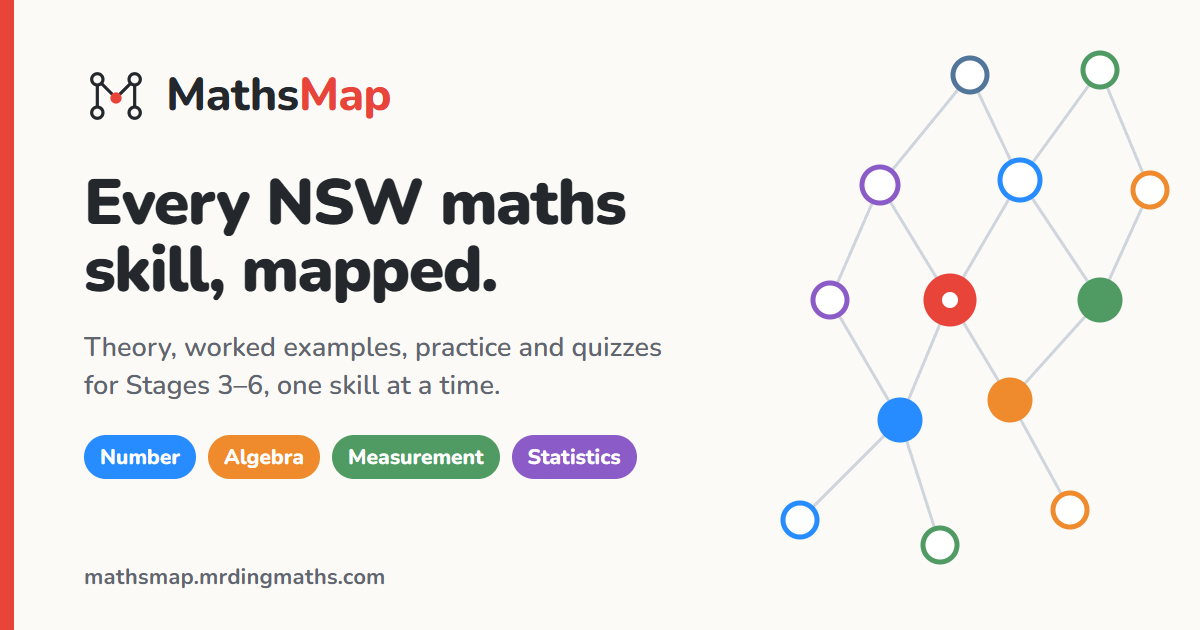
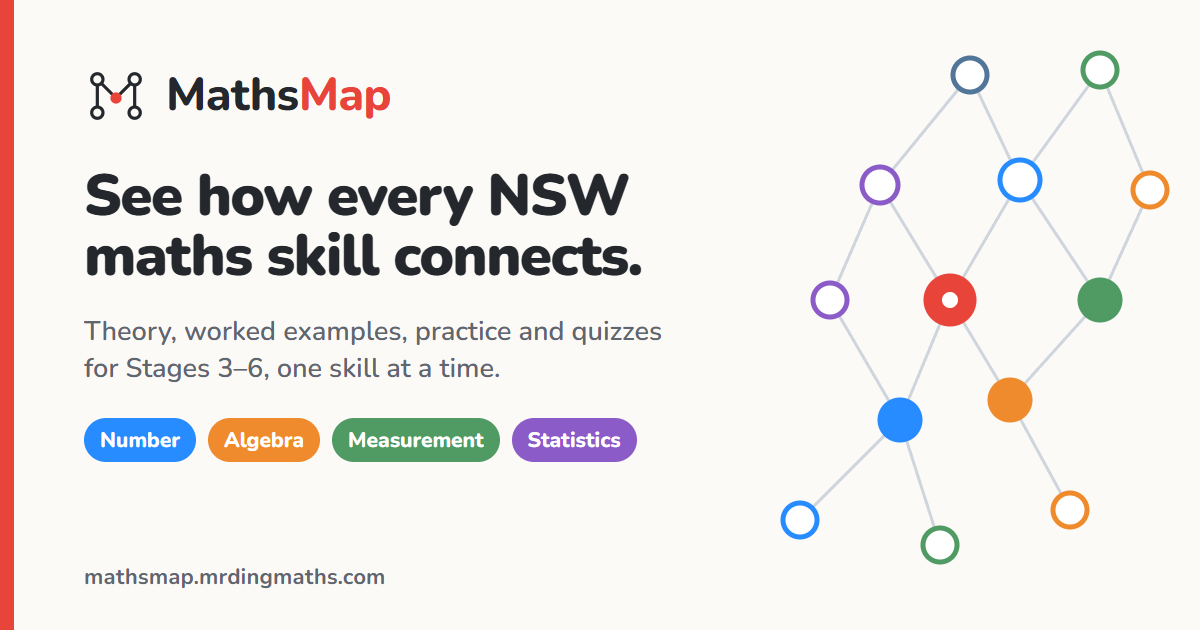
Reword the tagline: See how every NSW maths skill connects
Home title, home intro, site description, share tags and the og-image headline (re-rendered).

Changed region(s): [[0.0617, 0.2714, 0.555, 0.4825], [0.0617, 0.6635, 0.555, 0.7841], [0.0617, 0.5127, 0.555, 0.6333]]

diff --git a/index.html b/index.html
@@ -9,24 +9,24 @@
          cache-miss diagram (which also installs the worker tracker) — no tags here. -->
     <link rel="icon" type="image/svg+xml" href="/favicon.svg" />
     <title>MathsMap</title>
-    <meta name="description" content="Every NSW Stage 3–6 maths skill, mapped: theory, worked examples, practice and quizzes, with the prerequisites that lead to each skill." />
+    <meta name="description" content="See how every NSW Stage 3–6 maths skill connects, with theory, worked examples, practice and quizzes for each one." />
     <meta name="theme-color" content="#E8443A" />
     <!-- Social share cards. Image source: branding/og-image.html (node branding/render-og-image.mjs). -->
     <meta property="og:type" content="website" />
     <meta property="og:site_name" content="MathsMap" />
-    <meta property="og:title" content="MathsMap: every NSW maths skill, mapped" />
+    <meta property="og:title" content="MathsMap: See how every NSW maths skill connects" />
     <meta property="og:description" content="Theory, worked examples, practice and quizzes for Stages 3–6, one skill at a time." />
     <meta property="og:url" content="https://mathsmap.mrdingmaths.com/" />
     <meta property="og:image" content="https://mathsmap.mrdingmaths.com/og-image.png" />
     <meta property="og:image:width" content="1200" />
     <meta property="og:image:height" content="630" />
-    <meta property="og:image:alt" content="MathsMap logo with the line 'Every NSW maths skill, mapped' beside a graph of linked skills." />
+    <meta property="og:image:alt" content="MathsMap logo with the line 'See how every NSW maths skill connects' beside a graph of linked skills." />
     <meta property="og:locale" content="en_AU" />
     <meta name="twitter:card" content="summary_large_image" />
-    <meta name="twitter:title" content="MathsMap: every NSW maths skill, mapped" />
+    <meta name="twitter:title" content="MathsMap: See how every NSW maths skill connects" />
     <meta name="twitter:description" content="Theory, worked examples, practice and quizzes for Stages 3–6, one skill at a time." />
     <meta name="twitter:image" content="https://mathsmap.mrdingmaths.com/og-image.png" />
-    <meta name="twitter:image:alt" content="MathsMap logo with the line 'Every NSW maths skill, mapped' beside a graph of linked skills." />
+    <meta name="twitter:image:alt" content="MathsMap logo with the line 'See how every NSW maths skill connects' beside a graph of linked skills." />
   </head>
   <body>
     <div id="app"></div>

diff --git a/branding/og-image.html b/branding/og-image.html
@@ -15,7 +15,7 @@
   .copy { position: absolute; left: 84px; top: 62px; width: 600px; }
   .brand { display: flex; align-items: center; gap: 18px; font-size: 46px; font-weight: 800; letter-spacing: -0.5px; }
   .brand .map { color: var(--red); }
-  h1 { margin-top: 44px; font-size: 64px; line-height: 1.04; font-weight: 900; letter-spacing: -1.5px; }
+  h1 { margin-top: 40px; font-size: 58px; line-height: 1.04; font-weight: 900; letter-spacing: -1.5px; }
   p.sub { margin-top: 26px; font-size: 27px; line-height: 1.4; color: var(--muted); font-weight: 600; }
   .chips { margin-top: 30px; display: flex; gap: 12px; }
   .chip { padding: 8px 16px; border-radius: 999px; font-size: 21px; font-weight: 800; color: #fff; }
@@ -38,7 +38,7 @@
       </svg>
       <span>Maths<span class="map">Map</span></span>
     </div>
-    <h1>Every NSW maths skill, mapped.</h1>
+    <h1>See how every NSW maths skill connects.</h1>
     <p class="sub">Theory, worked examples, practice and quizzes for Stages&nbsp;3–6, one skill at a&nbsp;time.</p>
     <div class="chips">
       <span class="chip" style="background:var(--blue)">Number</span>

diff --git a/src/lib/page-meta.js b/src/lib/page-meta.js
@@ -5,8 +5,8 @@
 
 export const SITE_URL = 'https://mathsmap.mrdingmaths.com';
 const SITE = 'MathsMap';
-const HOME_TITLE = 'MathsMap: every NSW maths skill, mapped';
-const HOME_DESCRIPTION = 'Every NSW Stage 3–6 maths skill, mapped: theory, worked examples, practice and quizzes, with the prerequisites that lead to each skill.';
+const HOME_TITLE = 'MathsMap: See how every NSW maths skill connects';
+const HOME_DESCRIPTION = 'See how every NSW Stage 3–6 maths skill connects, with theory, worked examples, practice and quizzes for each one.';
 
 const SYMBOLS = {
   '\\times': '×', '\\div': '÷', '\\pm': '±', '\\leq': '≤', '\\le': '≤', '\\geq': '≥', '\\ge': '≥',

diff --git a/src/views/Home.svelte b/src/views/Home.svelte
@@ -85,7 +85,7 @@
   <section class="intro" aria-labelledby="hero-title">
     <div class="intro-copy">
       <h1 id="hero-title">Your Maths Skill Tree</h1>
-      <p class="lede">See how every skill in NSW maths is linked to what comes before and what it leads to. Take a quick multiple choice quiz to start building your own skill tree!</p>
+      <p class="lede">See how every NSW maths skill connects. Take a quick multiple choice quiz to start building your own skill tree!</p>
       <div class="intro-actions">
         <a class="mm-btn primary big" href={href('/quiz')}>Take the quiz</a>
         <a class="mm-btn big" href={href('/map')}>Explore the skill map</a>
